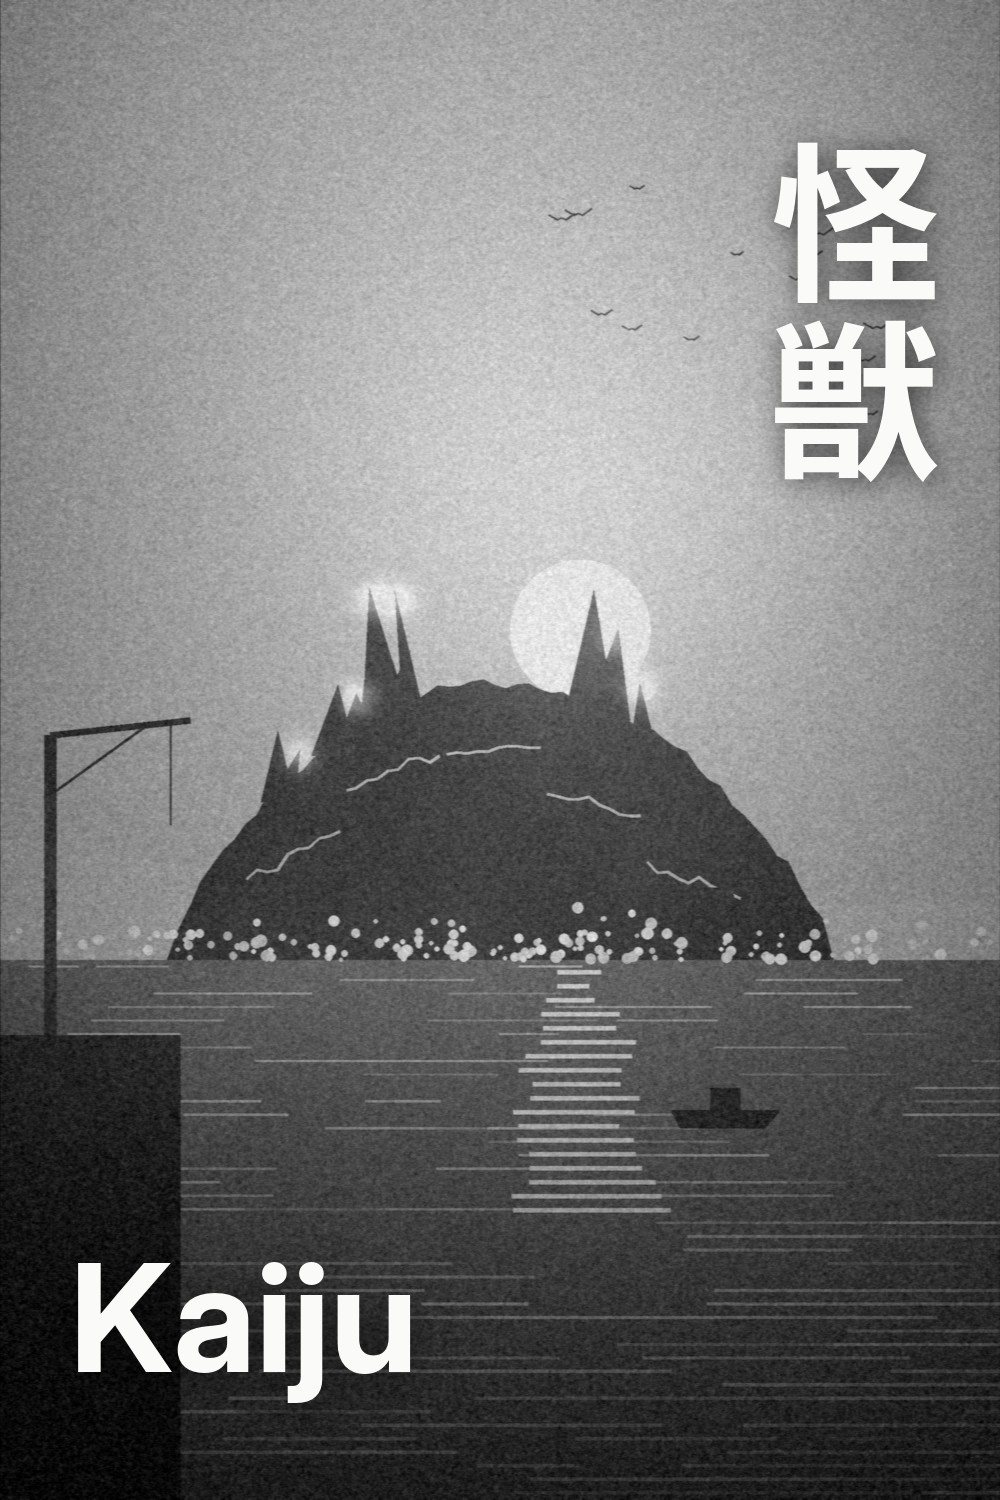
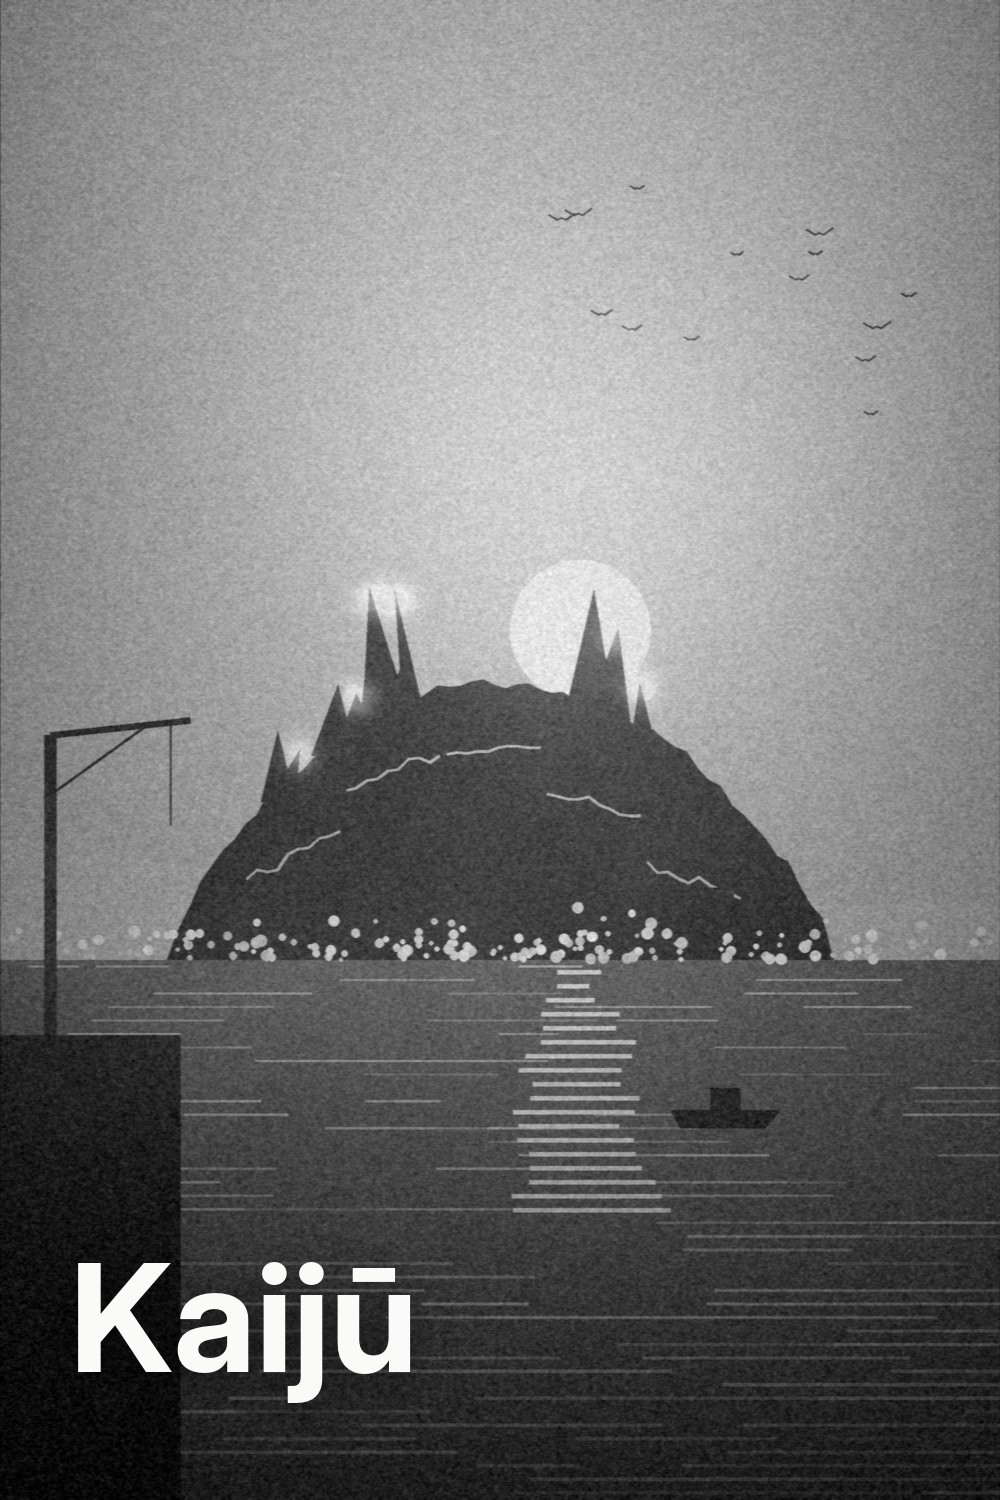
Titans cover: title Kaijū, drop kanji
Claude-Session: https://claude.ai/code/session_01QCZ3THmafUUiZD8XJvcPvh

Changed region(s): [[0.775, 0.092, 0.961, 0.3373], [0.341, 0.828, 0.403, 0.8587]]

diff --git a/tools/make_titan.py b/tools/make_titan.py
@@ -101,5 +101,5 @@ def build(W, H, title, out, jp=None):
 
 
 if __name__ == '__main__':
-    print(build(1000, 1500, 'Kaiju', 'covers/collections/titans-poster.jpg', jp='怪獣'))
+    print(build(1000, 1500, 'Kaijū', 'covers/collections/titans-poster.jpg'))
     print(build(1920, 1080, None, 'covers/collections/titans-wide.jpg'))
